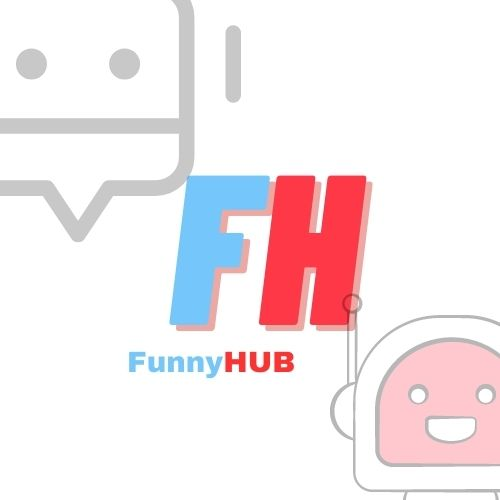
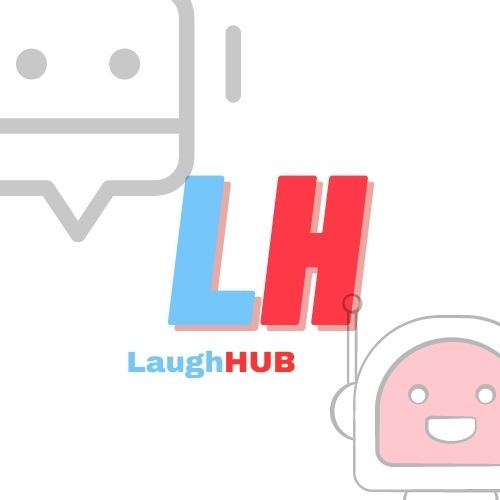
Css : Improve:

diff --git a/chatbot/src/Game.css b/chatbot/src/Game.css
@@ -1,5 +1,11 @@
 * {
-  color: lightseagreen;
+  box-sizing: border-box;
+}
+
+body {
+  background-color: #1f2937;
+  color: white;
+  font-family: Arial, sans-serif;
 }
 
 .game-container {
@@ -7,16 +13,41 @@
   flex-direction: column;
   align-items: center;
   margin-top: 50px;
+  max-width: 800px;
+  margin: 50px auto 0 auto;
 }
 
 h1 {
-  font-size: 36px;
+  font-size: 48px;
   margin-bottom: 20px;
+  text-align: center;
 }
 
 p {
   font-size: 24px;
   margin: 10px 0;
+}
+
+.score-card {
+  background-color: #2d3748;
+  padding: 20px;
+  border-radius: 10px;
+  margin-bottom: 20px;
+  text-align: center;
+  width: 100%;
+  max-width: 400px;
+}
+
+.score-card h3 {
+  margin-top: 0;
+  margin-bottom: 10px;
+  font-size: 24px;
+  text-transform: uppercase;
+}
+
+.score-card p {
+  margin: 0;
+  font-size: 48px;
 }
 
 .button-container {
@@ -31,15 +62,20 @@ p {
   width: 100px;
   height: 100px;
   margin: 10px;
-  border-radius: 50%;
+  border-radius: 10px;
   border: none;
   background-color: #fff;
   box-shadow: 0px 4px 10px rgba(0, 0, 0, 0.2);
   transition: all 0.2s ease-in-out;
+  display: flex;
+  justify-content: center;
+  align-items: center;
+  cursor: pointer;
 }
 
 .emoji-button:hover {
   transform: scale(1.1);
+  box-shadow: 0px 4px 20px rgba(0, 0, 0, 0.4);
 }
 
 .emoji-button:active {
@@ -49,4 +85,78 @@ p {
 .highlight {
   background-color: #ffc107;
   box-shadow: none;
+}
+
+.share-button {
+  font-size: 24px;
+  border: none;
+  border-radius: 5px;
+  background-color: #1da1f2;
+  color: white;
+  padding: 10px 20px;
+  margin-top: 20px;
+  cursor: pointer;
+}
+
+.share-button:hover {
+  background-color: #0d8bf0;
+}
+
+@media only screen and (max-width: 600px) {
+  h1 {
+    font-size: 36px;
+  }
+
+  p {
+    font-size: 18px;
+  }
+
+  .emoji-button {
+    font-size: 24px;
+    width: 75px;
+    height: 75px;
+  }
+}
+.play-again-button {
+  display: block;
+  margin: 0 auto;
+  padding: 10px 20px;
+  font-size: 20px;
+  font-weight: bold;
+  text-align: center;
+  color: #ffffff;
+  background-color: #28a745;
+  border: none;
+  border-radius: 5px;
+  cursor: pointer;
+  transition: background-color 0.2s ease-in-out;
+}
+
+.play-again-button:hover {
+  background-color: #218838;
+}
+
+.play-again-button:active {
+  background-color: #1e7e34;
+}
+
+.play-again-button:focus {
+  outline: none;
+  box-shadow: 0px 0px 0px 2px #ffffff, 0px 0px 0px 4px #28a745;
+  transition: box-shadow 0.2s ease-in-out;
+}
+
+.play-again-button:before {
+  content: "\f01e";
+  font-family: "Font Awesome 5 Free";
+  font-weight: 900;
+  font-size: 24px;
+  margin-right: 10px;
+  animation: rotate 2s linear infinite;
+}
+
+@keyframes rotate {
+  100% {
+    transform: rotate(360deg);
+  }
 }

diff --git a/chatbot/src/Game.jsx b/chatbot/src/Game.jsx
@@ -60,15 +60,15 @@ function Game() {
 
   return (
     <div className="game-container">
-      <h1 className="text-4xl font-bold mb-4">Memory Game</h1>
-      <p className="text-lg mb-2">Round: {round}</p>
-      <p className="text-lg mb-4">Score: {score}</p>
-      <div className="flex flex-wrap justify-center">
+      <h1 className="game-title">Memory Game</h1>
+      <p className="game-text">Round: {round}</p>
+      <p className="game-text">Score: {score}</p>
+      <div className="button-container">
         {emojis.map((emoji) => (
           <button
             key={emoji}
             id={emoji}
-            className="emoji-button p-4 m-2 text-4xl rounded-lg bg-gray-200 hover:bg-gray-300 focus:outline-none focus:ring-2 focus:ring-gray-400"
+            className="emoji-button"
             onClick={() => handleButtonClick(emoji)}
             disabled={gameOver}
           >
@@ -77,18 +77,15 @@ function Game() {
         ))}
       </div>
       {gameOver && (
-        <div className="fixed inset-0 z-10 flex items-center justify-center">
-          <div className="bg-gray-700 opacity-80 absolute inset-0"></div>
-          <div className="bg-white p-8 rounded-lg z-20">
-            <h2 className="text-2xl font-bold mb-2">Game Over</h2>
-            <p className="text-lg mb-4">Your final score was {score}</p>
-            <button
-              className="px-4 py-2 text-lg font-bold rounded-lg bg-gray-200 hover:bg-gray-300 focus:outline-none focus:ring-2 focus:ring-gray-400"
-              onClick={() => window.location.reload()}
-            >
-              Play Again
-            </button>
-          </div>
+        <div className="game-over">
+          <h2 className="game-over-title">Game Over</h2>
+          <p className="game-over-text">Your final score was {score}</p>
+          <button
+            className="play-again-button"
+            onClick={() => window.location.reload()}
+          >
+            Play Again
+          </button>
         </div>
       )}
     </div>

diff --git a/chatbot/src/Home.jsx b/chatbot/src/Home.jsx
@@ -8,11 +8,10 @@ import Stone from "./componets/Stone";
 import Question from "./Question";
 import alanBtn from "@alan-ai/alan-sdk-web";
 function App() {
-
   const [greetingWasSaid, setgreetingWasSaid] = useState(false);
   const alanBtnRef = useRef({}).current;
   useEffect(() => {
-  var alanBtnInstance= alanBtn({
+    var alanBtnInstance = alanBtn({
[1 lines of base64/hex data omitted]
       onCommand: (commandData) => {
         if (commandData.command === "go:back") {
@@ -23,9 +22,7 @@ function App() {
         if (status === "ONLINE") {
           if (!greetingWasSaid) {
             await alanBtnInstance.activate();
-            alanBtnInstance.playText(
-              `Hello Namaste Nishit Bariya?`
-            );
+            alanBtnInstance.playText(`Hello Namaste Nishit Bariya?`);
             setgreetingWasSaid(true);
           }
         }

diff --git a/chatbot/src/main.jsx b/chatbot/src/main.jsx
@@ -5,20 +5,18 @@ import "./index.css";
 import { BrowserRouter } from "react-router-dom";
 import { Auth0Provider } from "@auth0/auth0-react";
 
-
 ReactDOM.createRoot(document.getElementById("root")).render(
   <React.StrictMode>
-     <Auth0Provider
-    domain="dev-fkzyzzay6f6jrars.us.auth0.com"
-    clientId="66DaNBfaNuWw4LHYejxIWzE2hOdK4tag"
-    authorizationParams={{
-      redirect_uri: window.location.origin
-    }}
-  >
-    <BrowserRouter>
-      <App />
-    </BrowserRouter>
-  </Auth0Provider>
-    
+    <Auth0Provider
+      domain="dev-y2u1x7z2dud70km5.us.auth0.com"
+      clientId="A1wYMBR5s48dQZx67mzEwHqMNhRS56Tv"
+      authorizationParams={{
+        redirect_uri: window.location.origin,
+      }}
+    >
+      <BrowserRouter>
+        <App />
+      </BrowserRouter>
+    </Auth0Provider>
   </React.StrictMode>
 );

diff --git a/chatbot/src/componets/Footer.jsx b/chatbot/src/componets/Footer.jsx
@@ -16,7 +16,7 @@ const Footer = () => {
                 alt="funnyHub Logo"
               />
               <span className="self-center text-2xl font-semibold whitespace-nowrap dark:text-white">
-                FunnyHub
+                Laughhub
               </span>
             </a>
             <ul className="flex flex-wrap items-center mb-6 text-sm font-medium text-gray-500 sm:mb-0 dark:text-gray-400">
@@ -46,7 +46,7 @@ const Footer = () => {
           <span className="block text-sm text-gray-500 sm:text-center dark:text-gray-400">
             © 2023{" "}
             <a href="" className="hover:underline">
-              FunnyHub™
+              Laughhub™
             </a>
             . All Rights Reserved.
           </span>

diff --git a/chatbot/src/componets/Navbar.jsx b/chatbot/src/componets/Navbar.jsx
@@ -12,10 +12,10 @@ const Navbar = () => {
           <img
             src="https://cdn2.downdetector.com/static/uploads/logo/Dankmemer_logo.png"
             className="h-8 mr-3"
-            alt="FunnyHub"
+            alt="Laughhub"
           />
           <span className="self-center text-2xl font-semibold whitespace-nowrap dark:text-white">
-            FunnyHub
+            Laughhub
           </span>
         </a>
         <button

diff --git a/chatbot/index.html b/chatbot/index.html
@@ -4,7 +4,7 @@
     <meta charset="UTF-8" />
     <link rel="icon" type="image/svg+xml" href="1.jpg" />
     <meta name="viewport" content="width=device-width, initial-scale=1.0" />
-    <title>FunnyHub</title>
+    <title>LaughHub</title>
   </head>
   <body>
     <div id="root"></div>
